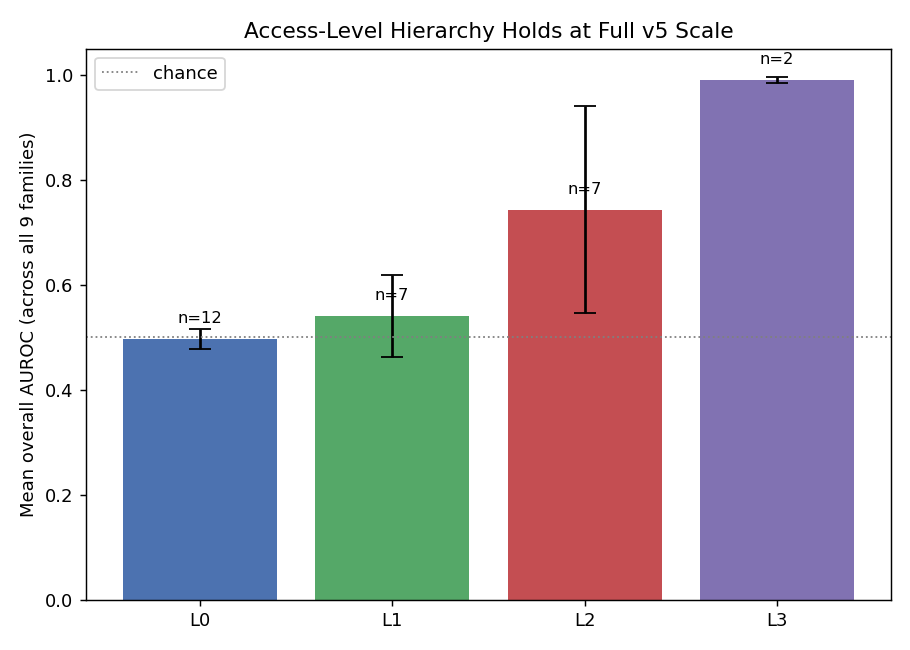
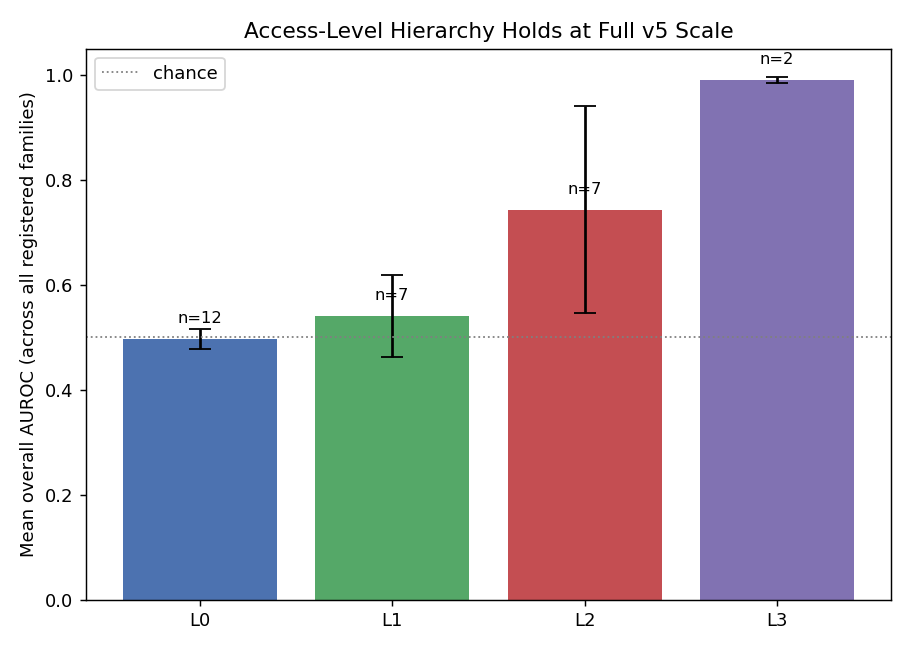
v1.4.0: update all stale "9 families" copy, fix pre-existing mechanism mislabel
Bumps pyproject.toml to 1.4.0 (was never bumped across the whole AdmissionGate
/5-new-families/RLHF/leaderboard body of work) and updates every place that
still said "9 families" to reflect the current 14: README's intro bullets and
family list, docs/TUTORIAL_DETECTOR.md, docs/site/index.html's badges,
scripts/plot_v5_results.py's docstrings and (more importantly) its hardcoded
FAMILY_ORDER/FAMILY_LABELS -- which meant the heatmap figure was silently
still only plotting the original 9 families' data despite the leaderboard
JSON already having all 14. Regenerated docs/figures/v5_heatmap.png (now
correctly 30 x 14) and v5_access_summary.png.

Also fixes a genuine pre-existing bug found while auditing mechanism counts
for accurate README copy: orbit_chirality.py was tagged
HackingMechanism.DECEPTIVE_ALIGNMENT, but its actual design (commit to a
proxy-satisfying orbit direction instead of the real task, from episode 0,
no appear-aligned-then-revert dynamic) is a CAMPING_EXPLOIT pattern, not
deceptive alignment. This predates this session -- not something the new
families introduced -- and means monitored_sandbagging/eval_probe_sandbagging
are genuinely the first two families to instantiate DECEPTIVE_ALIGNMENT, not
the second/third as earlier commit messages assumed. Mechanism count remains
9 distinct mechanisms across 14 families either way, since DECEPTIVE_ALIGNMENT
is still represented by the two dedicated families.

Added a CHANGELOG entry consolidating the full v1.4.0 scope.

Changed region(s): [[0.0, 0.1538, 0.0615, 0.6769], [0.0, 0.7077, 0.0615, 0.8308], [0.0, 0.8308, 0.0308, 0.8615]]

diff --git a/docs/site/index.html b/docs/site/index.html
@@ -51,8 +51,8 @@
 <p class="tagline">Reward Hacking Onset Benchmark — can your detector tell hacking from legitimate improvement when the proxy reward looks identical?</p>
 
 <div class="badges">
-  <span class="badge">v1.0</span>
-  <span class="badge">9 families</span>
+  <span class="badge">v1.4</span>
+  <span class="badge">14 families</span>
   <span class="badge">35 detectors</span>
   <span class="badge">MIT license</span>
 </div>

diff --git a/scripts/plot_v5_results.py b/scripts/plot_v5_results.py
@@ -2,13 +2,13 @@
 
 Unlike ``scripts/plot_results.py`` (which plots the original 6-detector x
 4-variant-set Family 1-2 case study from ``results/detector_evaluation/``),
-this script plots the full v5 scope: 30 detectors x 9 families, from
+this script plots the full v5 scope: 30 detectors x all registered families, from
 ``leaderboard/v5_leaderboard.json``, plus the cross-family transfer results
 from ``leaderboard/cross_family_transfer.json`` once that experiment has run.
 
 Outputs (written to ``docs/figures/``):
-  v5_heatmap.png        30 detectors x 9 families, per-family AUROC
-  v5_access_summary.png Mean AUROC by access level (L0/L1/L2/L3), across all 9 families
+  v5_heatmap.png        30 detectors x all registered families, per-family AUROC
+  v5_access_summary.png Mean AUROC by access level (L0/L1/L2/L3), across all registered families
   v5_transfer.png       Train vs. per-family-transfer AUROC (Reward MLP, State
                          Divergence, Trajectory MLP, Ensemble) -- only produced
                          if leaderboard/cross_family_transfer.json exists.
@@ -25,7 +25,8 @@ matplotlib.use("Agg")
 import matplotlib.pyplot as plt
 import numpy as np
 
-# Family order matches Table tab:families-sigma in the paper (Family 1 .. Family 9).
+# Families 1-9 order matches Table tab:families-sigma in the paper; 10-14 are the
+# v1.4 additions (2x REWARD_TAMPERING, 2x DECEPTIVE_ALIGNMENT, 1x RM_OVEROPTIMIZATION).
 FAMILY_ORDER = [
     "gridworld_camping",
     "continuous_camping",
@@ -36,6 +37,11 @@ FAMILY_ORDER = [
     "goal_misgeneralization",
     "physics_exploitation",
     "distributional_shift",
+    "reward_channel_tampering",
+    "sensor_calibration_tampering",
+    "monitored_sandbagging",
+    "eval_probe_sandbagging",
+    "rlhf_reward_model_overopt",
 ]
 FAMILY_LABELS = [
     "1. Gridworld\nCamping",
@@ -47,6 +53,11 @@ FAMILY_LABELS = [
     "7. Goal\nMisgen.",
     "8. Physics\nExploit.",
     "9. Distrib.\nShift",
+    "10. Reward Chan.\nTampering",
+    "11. Sensor Calib.\nTampering",
+    "12. Monitored\nSandbagging",
+    "13. Eval-Probe\nSandbagging",
+    "14. RLHF RM\nOveropt.",
 ]
 
 # Detector order matches Section 5 (Detector Suite) of the paper: L0 (13), L1 (8), L2 (8), L3 (2).
@@ -118,7 +129,7 @@ def plot_access_summary(board: dict, out_path: Path) -> None:
             ax.text(i, m + 0.03, f"n={n}", ha="center", fontsize=9)
     ax.set_xticks(x)
     ax.set_xticklabels(levels)
-    ax.set_ylabel("Mean overall AUROC (across all 9 families)")
+    ax.set_ylabel("Mean overall AUROC (across all registered families)")
     ax.set_ylim(0.0, 1.05)
     ax.set_title("Access-Level Hierarchy Holds at Full v5 Scale")
     ax.legend()

diff --git a/scripts/cross_family_transfer.py b/scripts/cross_family_transfer.py
@@ -35,7 +35,7 @@ from pathlib import Path
 import numpy as np
 from sklearn.metrics import roc_auc_score
 
-import rhob.v3.families  # noqa: F401  -- importing registers all 9 families
+import rhob.v3.families  # noqa: F401  -- importing registers every family
 from rhob.v3.access import restrict
 from rhob.v3.benchmark import Benchmark
 from rhob.v3.registry import FamilyRegistry

diff --git a/src/rhob/v3/families/orbit_chirality.py b/src/rhob/v3/families/orbit_chirality.py
@@ -115,7 +115,7 @@ class OrbitChiralityFamily(BaseFamily):
 
     @property
     def mechanism(self) -> HackingMechanism:
-        return HackingMechanism.DECEPTIVE_ALIGNMENT
+        return HackingMechanism.CAMPING_EXPLOIT
 
     @property
     def complexity(self) -> EnvironmentComplexity:

diff --git a/CHANGELOG.md b/CHANGELOG.md
@@ -4,6 +4,43 @@ All notable changes to RHOB are documented here. The format follows
 [Keep a Changelog](https://keepachangelog.com/), and the project adheres to
 semantic versioning.
 
+## [1.4.0] — AdmissionGate, 5 New Families, Toy RLHF Setting, Leaderboard Infra
+
+Builds the next benchmark generation on top of v1.3's 9 families:
+
+- **`AdmissionGate` module** (`src/rhob/v3/admission_gate.py`): reusable,
+  family-agnostic implementation of the 5 admission criteria, replacing
+  bespoke per-family pytest. Running it against all shipped families caught a
+  real, previously undetected proxy leak in `goal_misgeneralization`
+  (asymmetric movement speed between variants; mean L0 AUROC ~0.73, not the
+  claimed ~0.5) — fixed.
+- **5 new families** (9 → 14), 3 new taxonomy mechanisms:
+  - `reward_channel_tampering`, `sensor_calibration_tampering` — first
+    `REWARD_TAMPERING` families
+  - `monitored_sandbagging`, `eval_probe_sandbagging` — first
+    `DECEPTIVE_ALIGNMENT` families
+  - `rlhf_reward_model_overopt` — toy preference-bandit RLHF setting; a real
+    (if tiny) fitted logistic-regression reward model, not a hand-waved
+    blind spot; new `HackingMechanism.RM_OVEROPTIMIZATION`
+- **Fixed a pre-existing mislabel**: `orbit_chirality` was tagged
+  `DECEPTIVE_ALIGNMENT` despite being a straightforward camping/commitment
+  mechanism (no appear-aligned-then-revert dynamic) — corrected to
+  `CAMPING_EXPLOIT`. Predates this release; found while auditing mechanism
+  counts for this changelog entry, not introduced by the new families.
+- **Leaderboard infrastructure**: JSON schema adapter reconciling the two
+  incompatible formats under `leaderboard/`, a read-only Gradio viewer
+  (`space/app.py`), CI validation for community submissions
+  (`.github/workflows/leaderboard_validate.yml`), and a documented (not yet
+  triggered — needs the maintainer's HF account) deploy path.
+- **Bugs found and fixed along the way**: a `None`-AUROC crash in
+  `Leaderboard.standings()`, an `rhob.v3` import chain that broke without
+  torch installed, unconditional torch-class definitions breaking CI, and a
+  `StateDivergenceDetector` NaN crash on sharp categorical distributions
+  (surfaced by the new tampering/RLHF families' confident 2-3-bin behavioral
+  signals).
+- Full 14-family leaderboard regenerated; access-level means: L0 0.497,
+  L1 0.541, L2 0.743, L3 0.990.
+
 ## [1.3.0] — Repository Scope: Benchmark Harness Only
 
 Restructured the repository to match the scope of comparable benchmark repos

diff --git a/README.md b/README.md
@@ -6,7 +6,7 @@
 A comprehensive benchmark for **detecting reward hacking across diverse mechanisms**.
 
 **RHOB** provides:
-- **9 environment families** spanning 9 distinct hacking mechanisms (camping exploits, goal misgeneralization, distributional shift, etc.)
+- **14 environment families** spanning 9 distinct hacking mechanisms (camping exploits, goal misgeneralization, distributional shift, reward tampering, deceptive alignment/sandbagging, RLHF reward-model overoptimization, etc.)
 - **35 detectors** across 4 access levels (reward-only to oracle), including 5 classical external baselines (Bayesian changepoint, isolation forest, PCA, etc.)
 - **Matched-proxy construction** ensuring hacking/legitimate improvement produce identical proxy rewards
 - **Cross-family transfer analysis** measuring detector generalization to unseen mechanisms
@@ -95,7 +95,7 @@ This is not artificial—it's the case that matters most: reward hacking where d
 
 **Key insight:** Transfer depends on **representation abstraction**, not access level — but a single learned detector is only as reliable as its training procedure. We found `TrajectoryMLPDetector` doesn't seed its `torch` weight initialization: repeating the identical fit on identical data 10 times produced held-out AUROC on one family ranging from 0.00 to 1.00. Ensembling deterministic behavioral-threshold detectors alongside the learned one is what actually makes transfer reliable. See [REPRODUCIBILITY.md](REPRODUCIBILITY.md) for the full methodological history — three real family-implementation bugs and this reproducibility bug were all found by treating implausible numbers as bugs to investigate, not results to report.
 
-## The 9 Families
+## The 14 Families
 
 ### Families 1–6 (v3.2 Baselines)
 
@@ -104,13 +104,21 @@ This is not artificial—it's the case that matters most: reward hacking where d
 3. **Proxy Correlation Gaming** — Exploit spurious feature correlation
 4. **Shortcut Exploitation** — Take forbidden direct path vs. scenic detour
 5. **Novelty Farming** — Revisit exploration frontier for novelty bonus
-6. **Orbit Chirality** — Angular pattern (deceptive-alignment analogue)
+6. **Orbit Chirality** — Commit to a proxy-satisfying orbit direction instead of the real task
 
-### Families 7–9 (v5 New, Held-out for Transfer)
+### Families 7–9 (v5, Held-out for Transfer)
 
 7. **Goal Misgeneralization** — Reach wrong goal (mechanistically distinct from 1–6)
 8. **Physics Exploitation** — Jump high but crash (physics safety vs. proxy metric)
 9. **Distributional Shift** — Overfit to train distribution, fail on test
+
+### Families 10–14 (v1.4, New Mechanisms)
+
+10. **Reward Channel Tampering** — Directly manipulate the reward-report channel instead of doing the task
+11. **Sensor Calibration Tampering** — Continuous-difficulty analogue: biased self-reported sensor readings
+12. **Monitored Sandbagging** — Behaves aligned while monitored, reverts to a shortcut once unmonitored
+13. **Eval-Probe Sandbagging** — Behaves aligned only when a recognizable "eval probe" is present, no single onset point
+14. **RLHF Reward-Model Overoptimization** — Toy preference-bandit exploiting a real (if tiny) fitted reward model's blind spot
 
 ## The 35 Detectors
 

diff --git a/docs/TUTORIAL_DETECTOR.md b/docs/TUTORIAL_DETECTOR.md
@@ -72,7 +72,7 @@ print(f"AUROC: {results.overall_auroc:.3f}")
 you don't need to split data yourself unless your detector needs a
 `fit()` step, in which case pass labeled runs from the training fold.
 
-## 3. Evaluate across all 9 families (10-15 min, mostly runtime)
+## 3. Evaluate across all 14 families (10-15 min, mostly runtime)
 
 ```python
 from rhob.v3.registry import FamilyRegistry